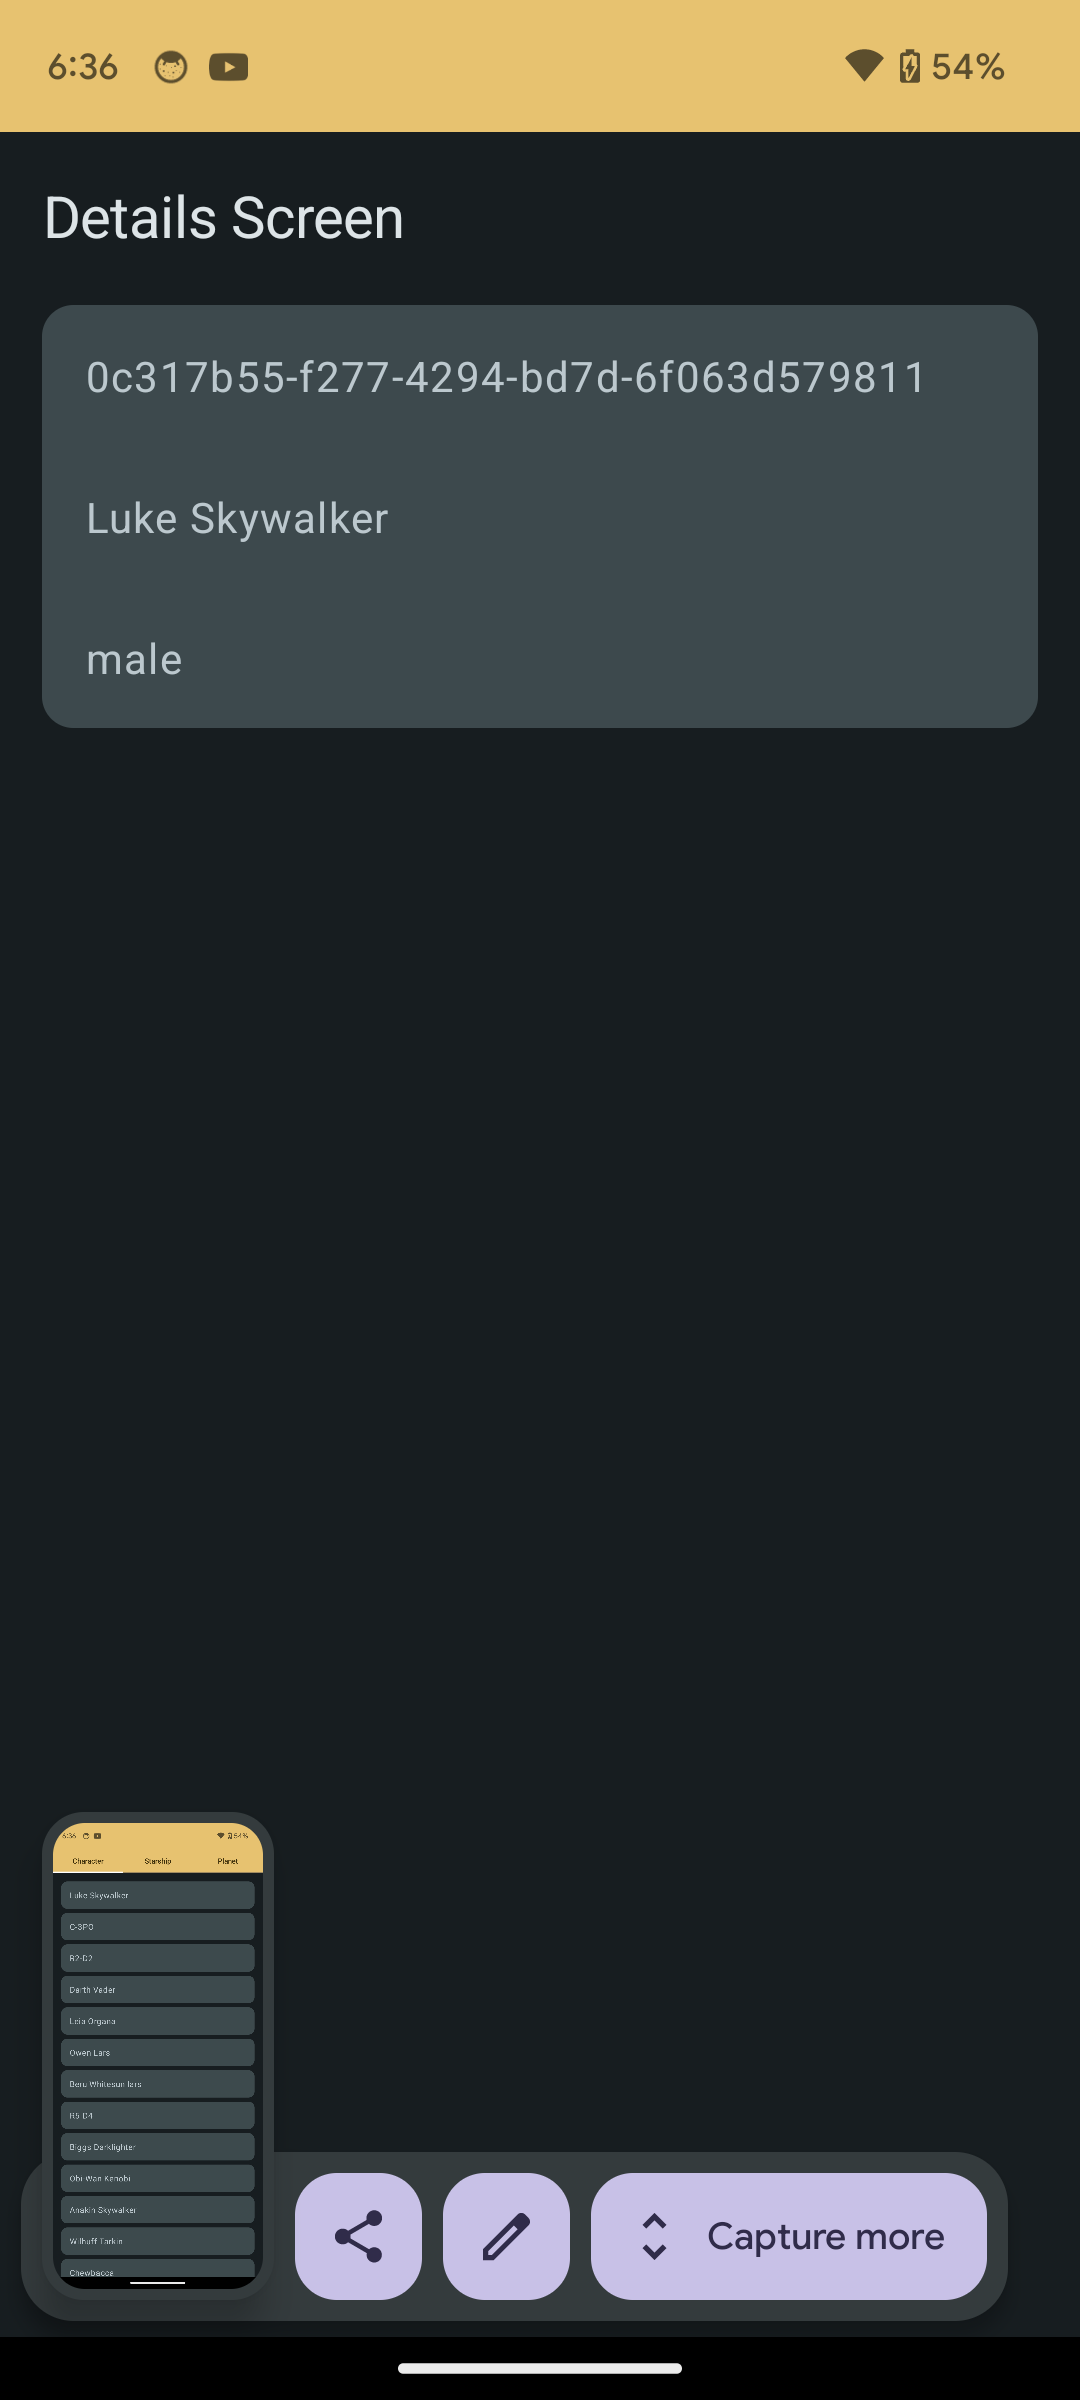
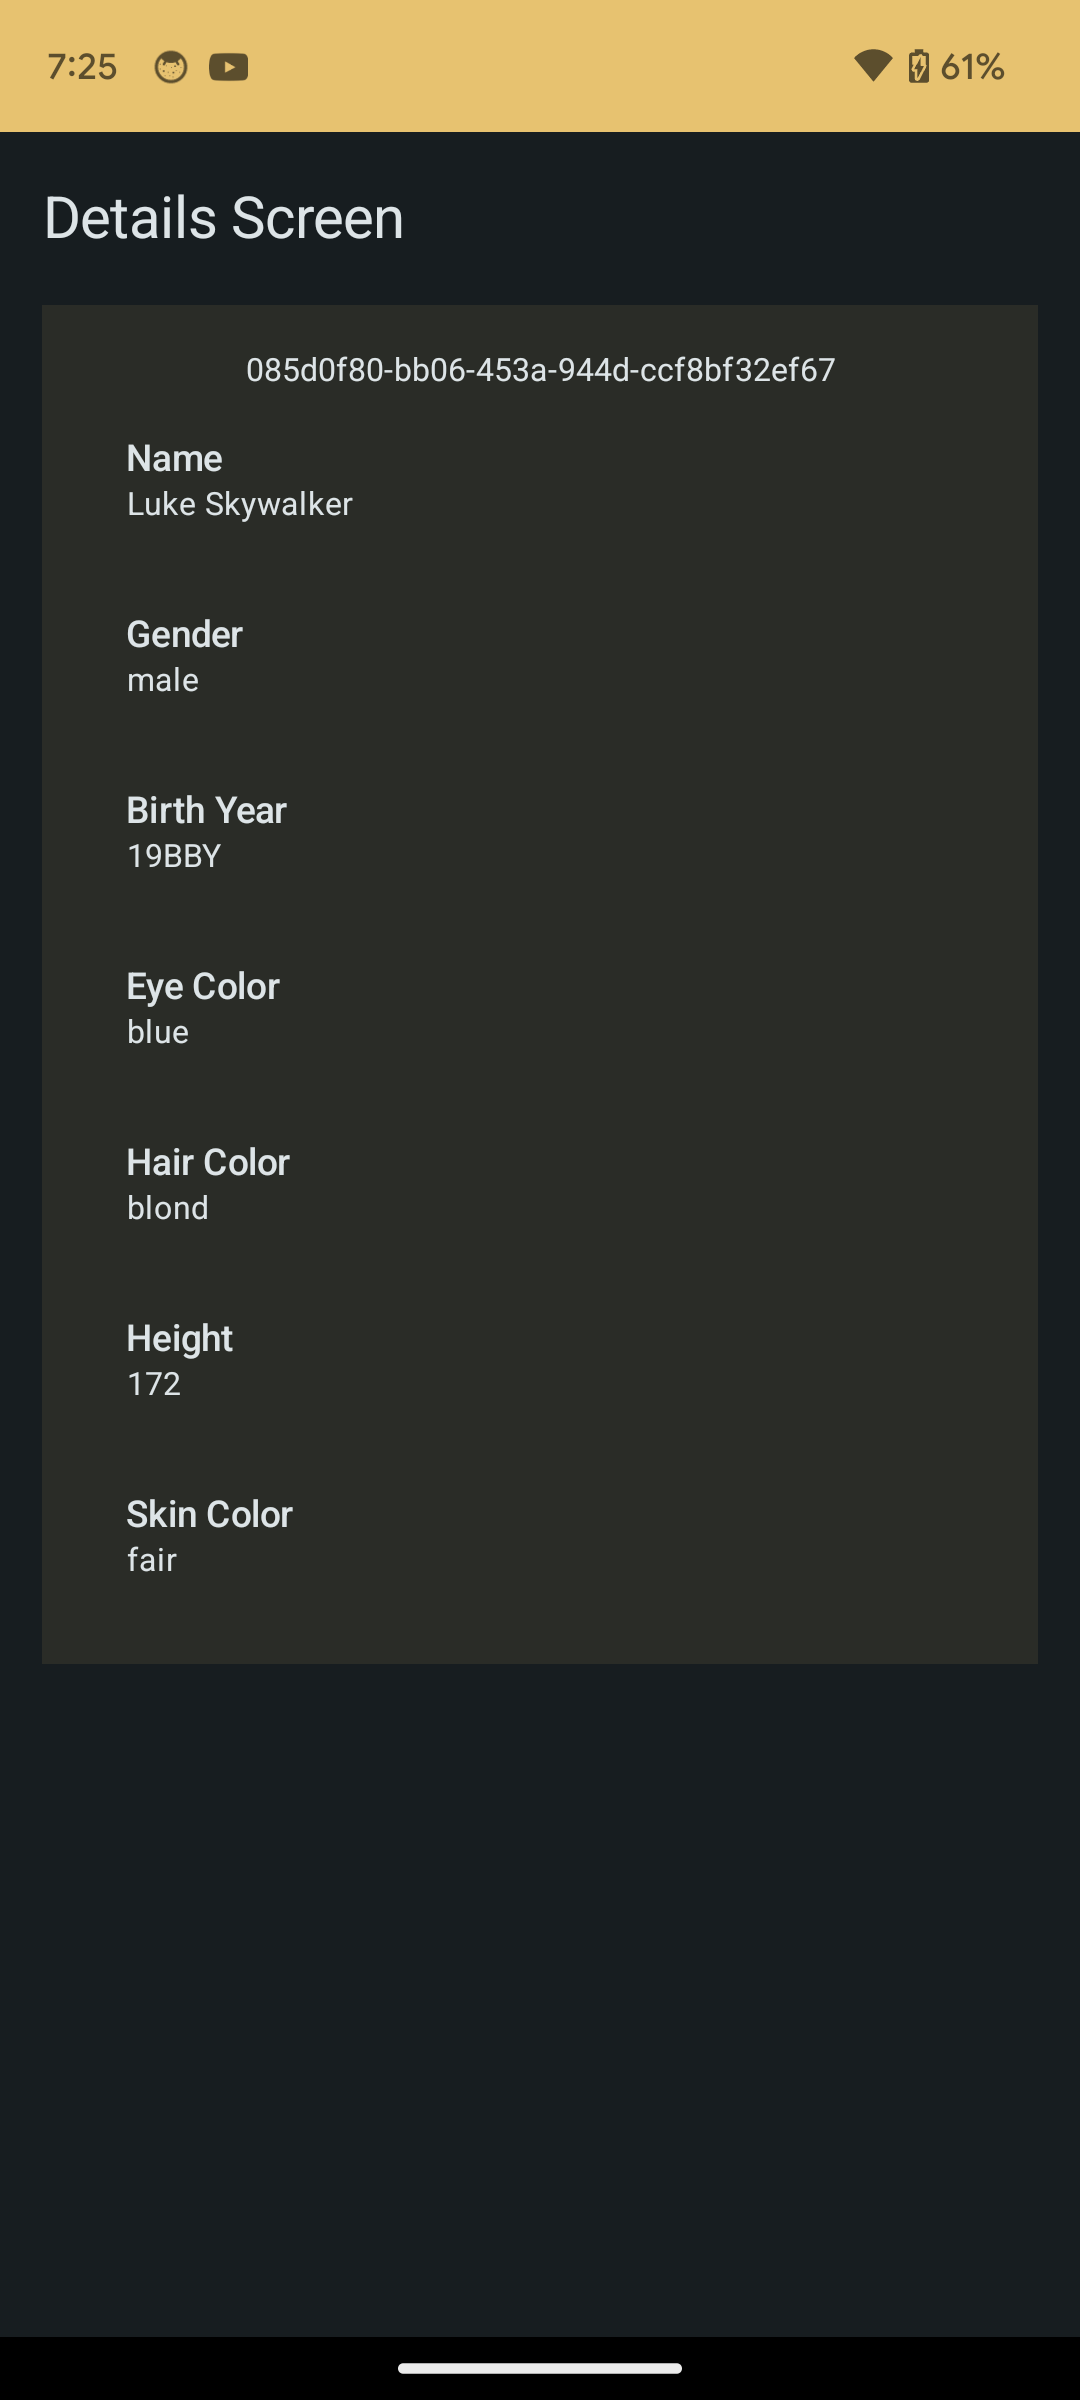
refactor -- design and code

diff --git a/app/src/main/java/com/zobaer53/starwars/app/characterDetails/presentation/component/CharacterDetailsItem.kt b/app/src/main/java/com/zobaer53/starwars/app/characterDetails/presentation/component/CharacterDetailsItem.kt
@@ -1,53 +1,78 @@
 package com.zobaer53.starwars.app.characterDetails.presentation.component
 
-import androidx.compose.foundation.layout.Box
 import androidx.compose.foundation.layout.Column
 import androidx.compose.foundation.layout.fillMaxWidth
 import androidx.compose.foundation.layout.padding
-import androidx.compose.material3.Card
-import androidx.compose.material3.CardDefaults
 import androidx.compose.material3.MaterialTheme
+import androidx.compose.material3.Surface
 import androidx.compose.material3.Text
 import androidx.compose.runtime.Composable
-import androidx.compose.runtime.remember
 import androidx.compose.ui.Modifier
 import androidx.compose.ui.text.style.TextAlign
 import androidx.compose.ui.unit.dp
 import com.zobaer53.starwars.app.character.domain.entity.Character
 
-
 @Composable
 fun CharacterDetailsItem(
-    character: Character?, characterId: String
+    character: Character?,
+    characterId: String
 ) {
-    val rememberedCharacter = remember { character }
-    Box(modifier = Modifier.padding(top = 50.dp)) {
-        Card(
-            colors = CardDefaults.cardColors(
-                containerColor = MaterialTheme.colorScheme.surfaceVariant,
-            ), modifier = Modifier.fillMaxWidth()
+
+    Surface(
+        modifier = Modifier
+            .fillMaxWidth()
+            .padding(top = 50.dp),
+       tonalElevation = 20.dp
+    ) {
+        Column(
+            modifier = Modifier
+                .padding(16.dp)
         ) {
-            Column {
-                Text(
-                    text = characterId,
-                    modifier = Modifier.padding(16.dp),
-                    textAlign = TextAlign.Center,
-                )
-                rememberedCharacter?.name?.let {
-                    Text(
-                        text = it,
-                        modifier = Modifier.padding(16.dp),
-                        textAlign = TextAlign.Center,
-                    )
-                }
-                rememberedCharacter?.gender?.let {
-                    Text(
-                        text = it,
-                        modifier = Modifier.padding(16.dp),
-                        textAlign = TextAlign.Center,
-                    )
-                }
+            Text(
+                text = characterId,
+                modifier = Modifier.fillMaxWidth(),
+                textAlign = TextAlign.Center,
+                style = MaterialTheme.typography.bodySmall
+            )
+            character?.name?.let {
+                CharacterDetailItem("Name", it)
+            }
+            character?.gender?.let {
+                CharacterDetailItem("Gender", it)
+            }
+            character?.birthYear?.let {
+                CharacterDetailItem("Birth Year", it)
+            }
+            character?.eyeColor?.let {
+                CharacterDetailItem("Eye Color", it)
+            }
+            character?.hairColor?.let {
+                CharacterDetailItem("Hair Color", it)
+            }
+            character?.height?.let {
+                CharacterDetailItem("Height", it)
+            }
+            character?.skinColor?.let {
+                CharacterDetailItem("Skin Color", it)
             }
         }
+    }
+}
+
+@Composable
+fun CharacterDetailItem(label: String, value: String) {
+    Column(
+        modifier = Modifier
+            .fillMaxWidth()
+            .padding(16.dp)
+    ) {
+        Text(
+            text = label,
+            style = MaterialTheme.typography.labelLarge
+        )
+        Text(
+            text = value,
+            style = MaterialTheme.typography.bodySmall
+        )
     }
 }

diff --git a/app/src/main/java/com/zobaer53/starwars/app/util/route/NavGraph.kt b/app/src/main/java/com/zobaer53/starwars/app/util/route/NavGraph.kt
@@ -1,6 +1,5 @@
 package com.zobaer53.starwars.app.util.route
 
-import androidx.compose.foundation.ExperimentalFoundationApi
 import androidx.compose.runtime.Composable
 import androidx.navigation.NavType
 import androidx.navigation.compose.NavHost
@@ -12,7 +11,6 @@ import com.zobaer53.starwars.app.character.presentation.CharacterScreen
 import com.zobaer53.starwars.app.characterDetails.presentation.CharacterDetailScreen
 import com.zobaer53.starwars.app.starship.presentation.StarshipScreen
 
-@OptIn(ExperimentalFoundationApi::class)
 @Composable
 fun NavGraph() {
     val navController = rememberNavController()
@@ -20,7 +18,6 @@ fun NavGraph() {
         navController = navController,
         startDestination = AppScreen.MainScreen.route,
     ) {
-
         composable(route = AppScreen.MainScreen.route) {
             MainScreen(
                 navController = navController
@@ -36,7 +33,6 @@ fun NavGraph() {
                 navController = navController
             )
         }
-
         // Detail screens for Character
         composable(
             route = AppScreen.DetailsScreen.route + "/{characterId}",
@@ -48,7 +44,5 @@ fun NavGraph() {
                 characterId = characterId.orEmpty()
             )
         }
-
-
     }
 }

diff --git a/app/src/main/java/com/zobaer53/starwars/app/util/route/AppScreen.kt b/app/src/main/java/com/zobaer53/starwars/app/util/route/AppScreen.kt
@@ -6,8 +6,6 @@ sealed class AppScreen(val route: String) {
     object StarshipScreen : AppScreen(ConstantAppScreenName.STARSHIP_SCREEN)
     object DetailsScreen : AppScreen(ConstantAppScreenName.DETAILS_SCREEN)
 }
-
-
 object ConstantAppScreenName {
     const val MAIN_SCREEN = "main_screen"
     const val CHARACTER_SCREEN = "character_screen"

diff --git a/app/src/main/java/com/zobaer53/starwars/app/MainActivity.kt b/app/src/main/java/com/zobaer53/starwars/app/MainActivity.kt
@@ -11,7 +11,6 @@ import com.zobaer53.starwars.app.util.route.NavGraph
 import com.zobaer53.starwars.app.util.theme.StarWarsTheme
 import dagger.hilt.android.AndroidEntryPoint
 
-
 @AndroidEntryPoint
 class MainActivity : ComponentActivity() {
     override fun onCreate(savedInstanceState: Bundle?) {

diff --git a/app/src/main/java/com/zobaer53/starwars/app/MainScreen.kt b/app/src/main/java/com/zobaer53/starwars/app/MainScreen.kt
@@ -29,13 +29,11 @@ fun MainScreen(
 ) {
     TabBar(navController)
 }
-
 @OptIn(ExperimentalFoundationApi::class)
 @Composable
 fun TabBar(
     navController: NavController
 ) {
-
     val pagerState = rememberPagerState { 3 }
     val coroutineScope = rememberCoroutineScope()
 

diff --git a/app/src/main/java/com/zobaer53/starwars/app/util/ItemLazyLoad.kt b/app/src/main/java/com/zobaer53/starwars/app/util/ItemLazyLoad.kt
@@ -17,8 +17,6 @@ import androidx.compose.ui.res.stringResource
 import androidx.compose.ui.text.style.TextOverflow
 import androidx.compose.ui.unit.dp
 import com.zobaer53.starwars.R
-
-
 @Composable
 fun PageLoader(modifier: Modifier = Modifier) {
     Column(
